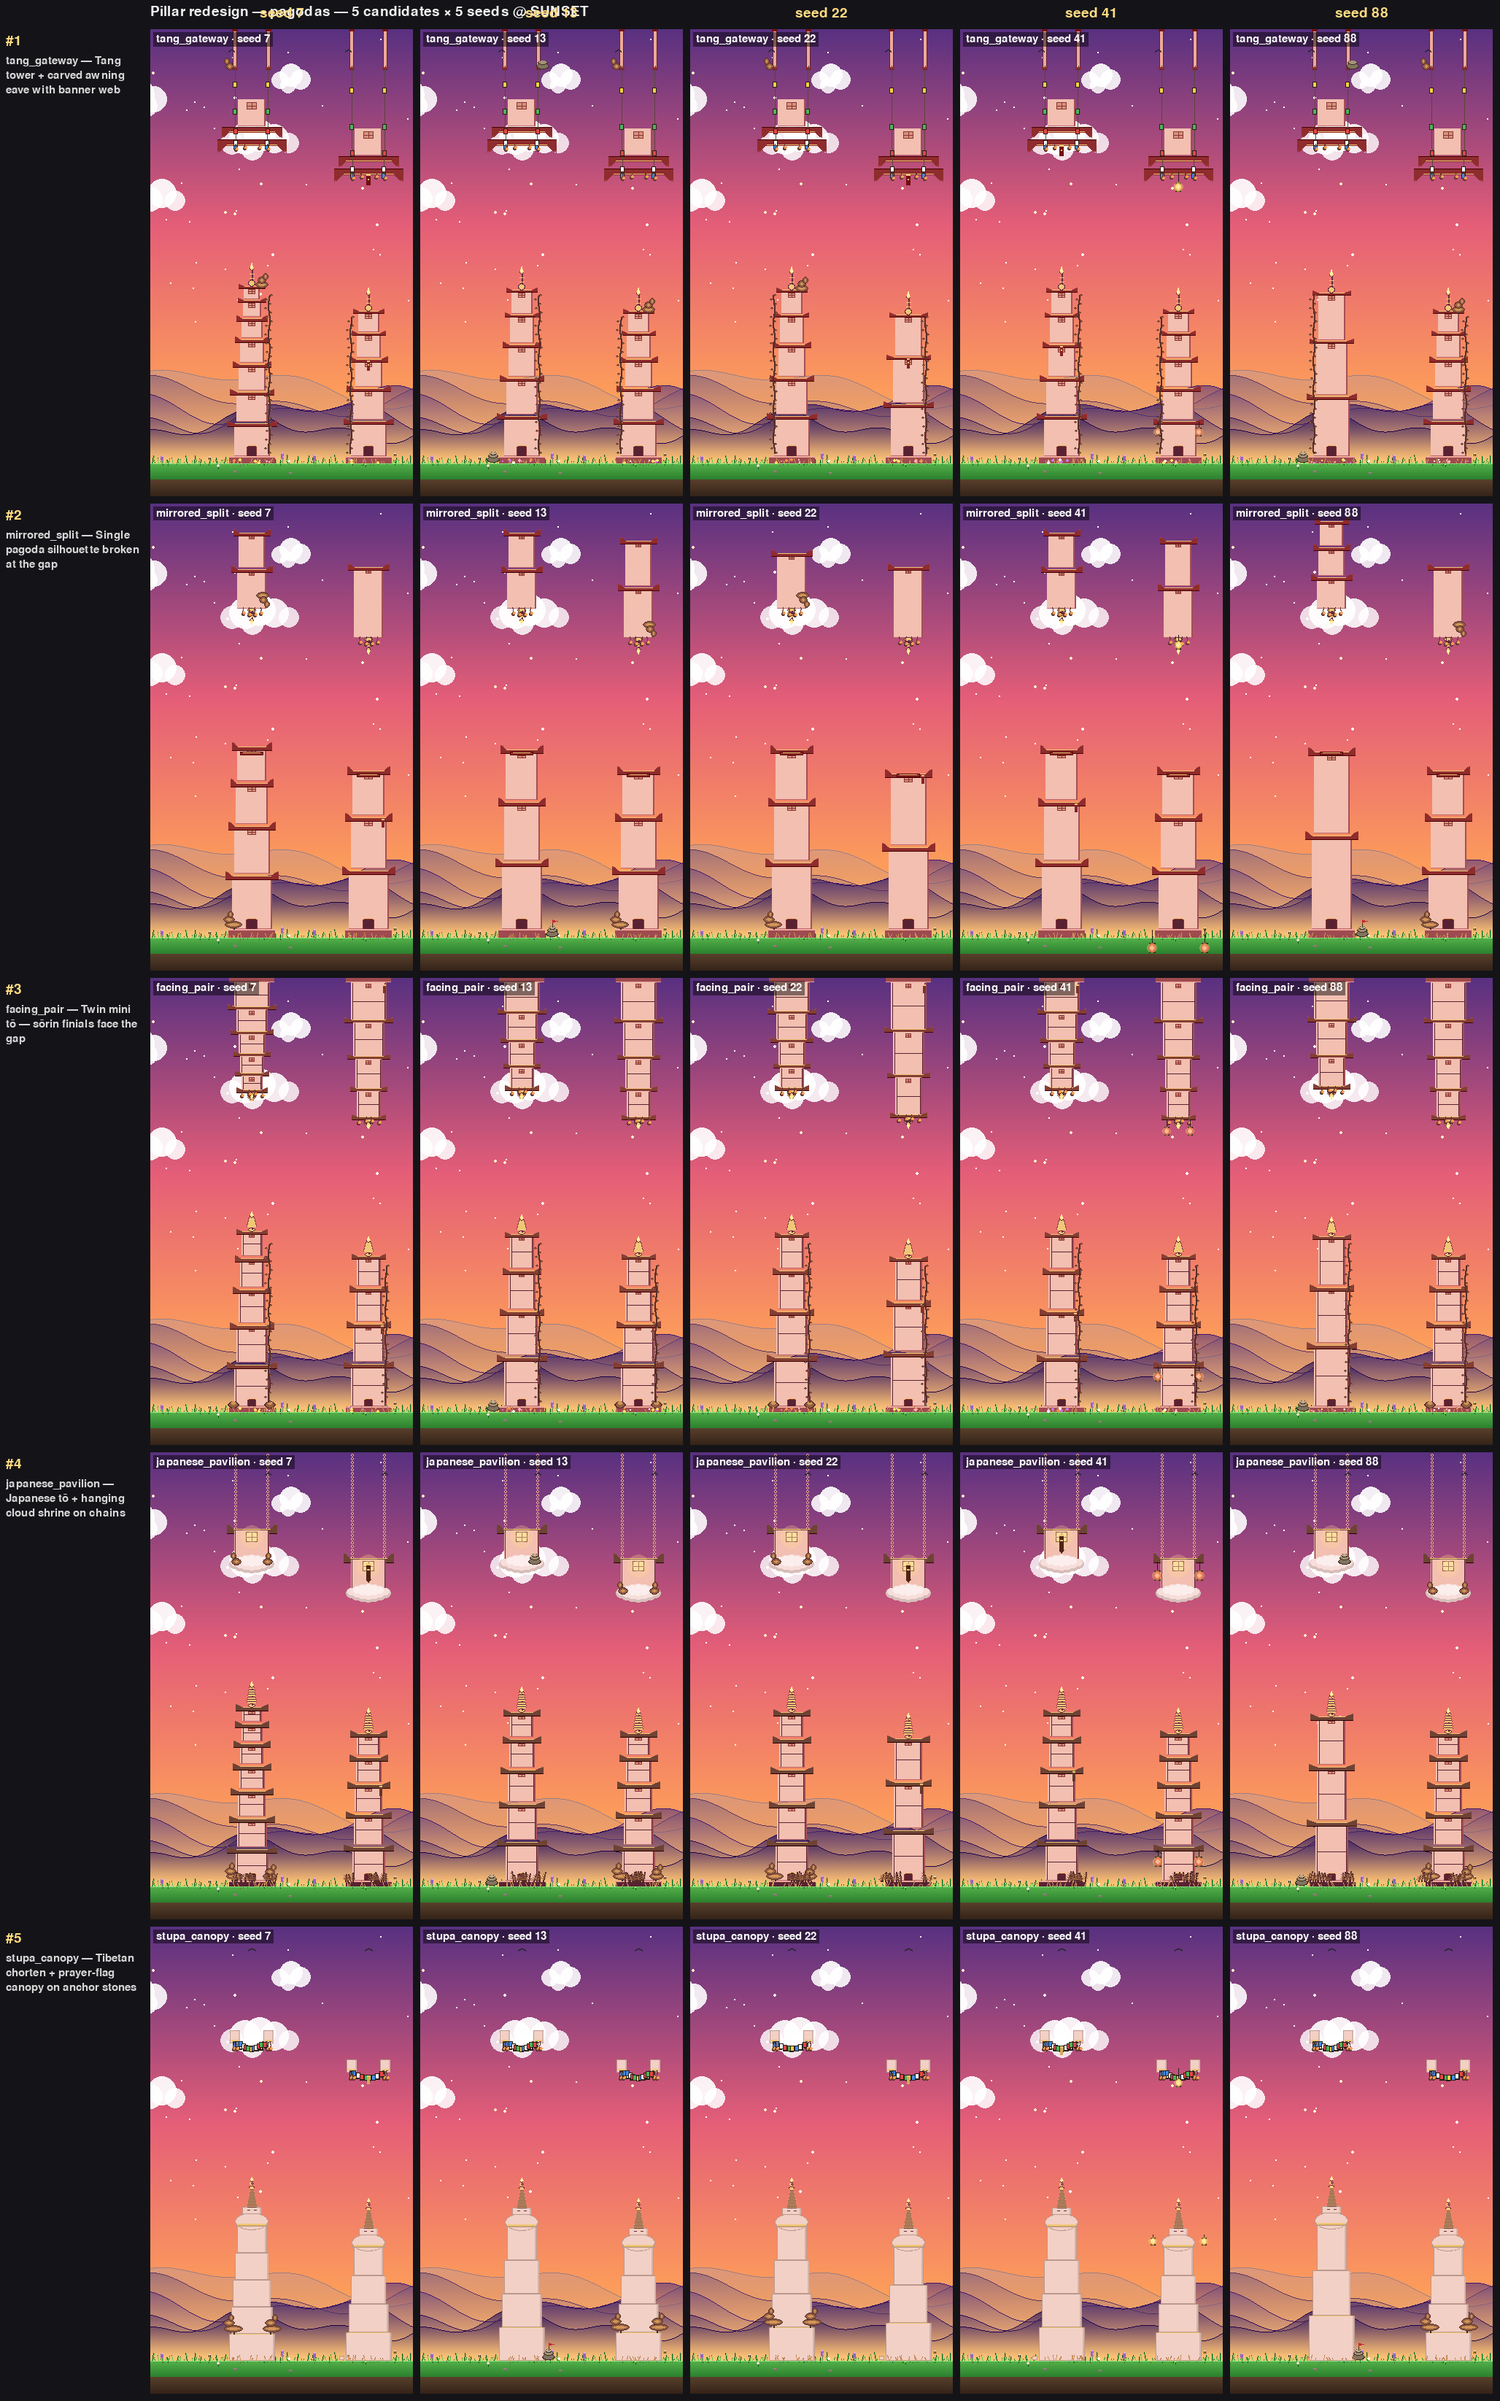
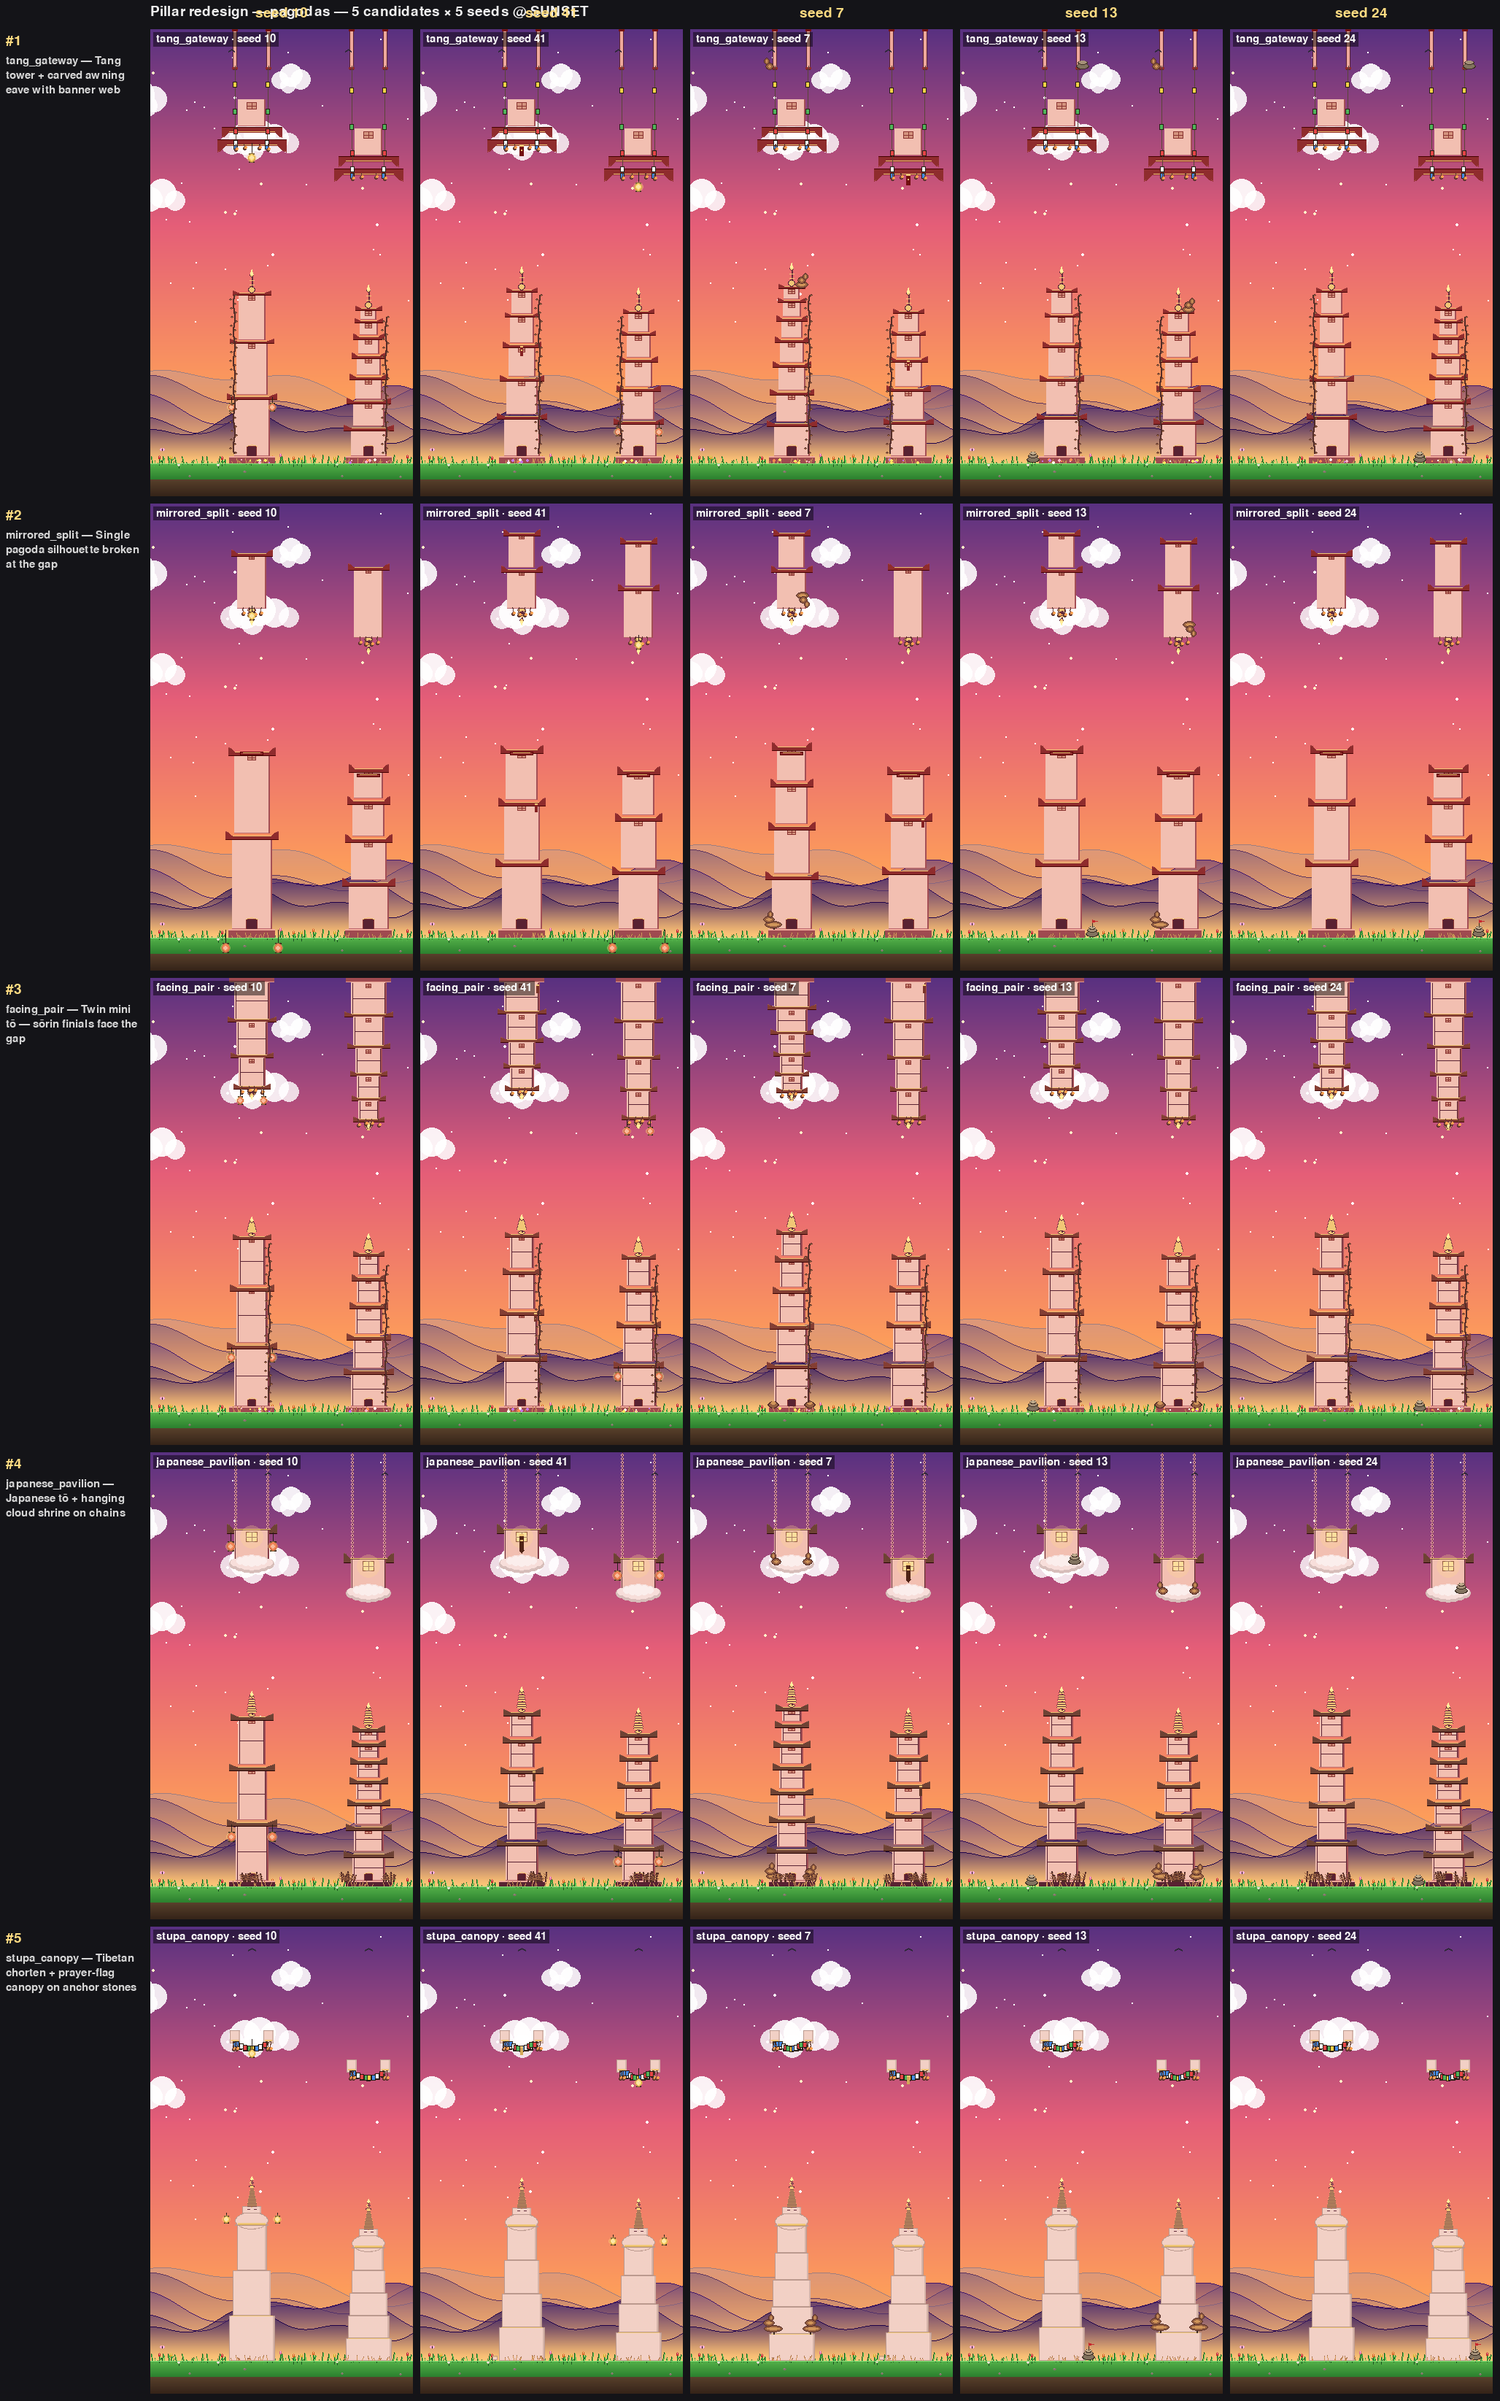
Pagoda pillars: final round-1 candidate sheet (5 designs, 5 seed flavors)

diff --git a/archive/pillar_redesign/render_pagoda_pillars.py b/archive/pillar_redesign/render_pagoda_pillars.py
@@ -62,8 +62,11 @@ OUT = _REPO / "docs" / "pillar_redesign"
 OUT.mkdir(parents=True, exist_ok=True)
 
 # 5 seeds chosen so each candidate's per-seed variation knobs (tier count,
-# whether a lantern shows up, etc.) actually fire across the row.
-SEED_SET = [7, 13, 22, 41, 88]
+# whether a lantern shows up, etc.) actually fire across the row. Seeds also
+# cover all 5 spawn flavors — seed % 5 maps to {plain, lantern, banner, pine,
+# cairn} so a row of 5 reads as 5 architecturally distinct temples instead of
+# accidental flavor duplicates.
+SEED_SET = [10, 41, 7, 13, 24]
 
 
 def _scene_backdrop(phase: float) -> pygame.Surface:
